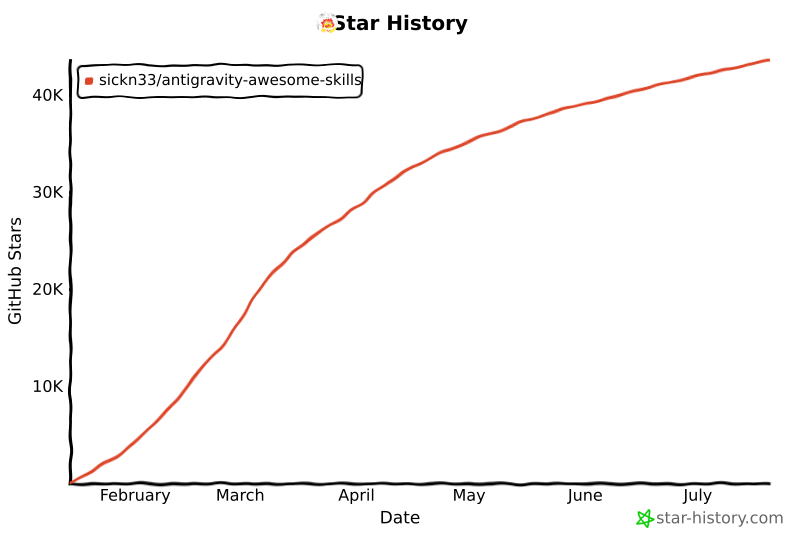
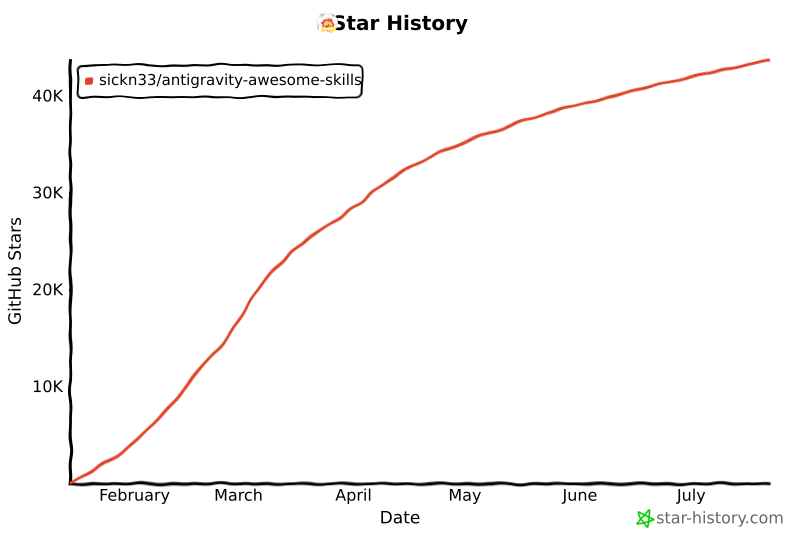
chore: update star history chart

diff --git a/README.md b/README.md
@@ -505,14 +505,14 @@ We officially thank the following contributors for their help in making this rep
 ## Star History
 
 <a href="https://www.star-history.com/#sickn33/antigravity-awesome-skills&type=date&legend=top-left">
- <img alt="Star History Chart" src="https://api.star-history.com/svg?repos=sickn33/antigravity-awesome-skills&type=date&legend=top-left&cache_bust=202607200917" />
+ <img alt="Star History Chart" src="https://api.star-history.com/svg?repos=sickn33/antigravity-awesome-skills&type=date&legend=top-left&cache_bust=202607220831" />
 </a>
 
 <a href="https://www.star-history.com/sickn33/antigravity-awesome-skills">
  <picture>
-   <source media="(prefers-color-scheme: dark)" srcset="https://api.star-history.com/chart?repos=sickn33/antigravity-awesome-skills&style=landscape1&theme=dark&cache_bust=202607200917" />
-   <source media="(prefers-color-scheme: light)" srcset="https://api.star-history.com/chart?repos=sickn33/antigravity-awesome-skills&style=landscape1&cache_bust=202607200917" />
-   <img alt="Star History Chart" src="https://api.star-history.com/chart?repos=sickn33/antigravity-awesome-skills&style=landscape1&cache_bust=202607200917" />
+   <source media="(prefers-color-scheme: dark)" srcset="https://api.star-history.com/chart?repos=sickn33/antigravity-awesome-skills&style=landscape1&theme=dark&cache_bust=202607220831" />
+   <source media="(prefers-color-scheme: light)" srcset="https://api.star-history.com/chart?repos=sickn33/antigravity-awesome-skills&style=landscape1&cache_bust=202607220831" />
+   <img alt="Star History Chart" src="https://api.star-history.com/chart?repos=sickn33/antigravity-awesome-skills&style=landscape1&cache_bust=202607220831" />
  </picture>
 </a>
 
